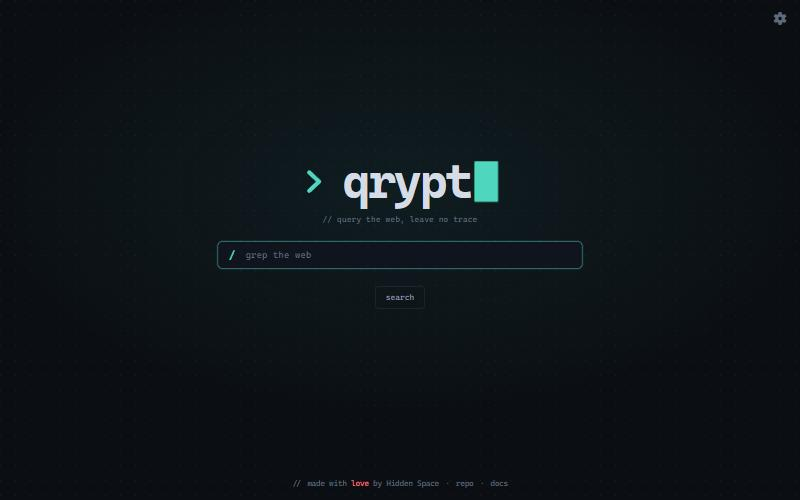
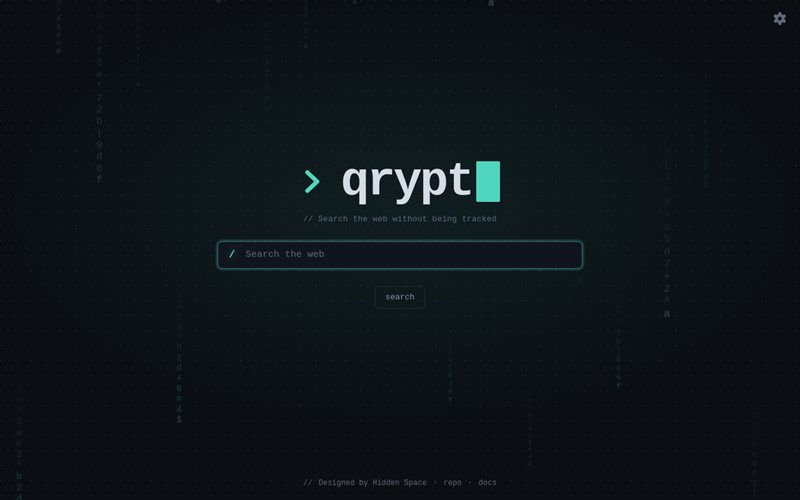
Rewrite the home tagline, search placeholder, footer and descriptions

diff --git a/themes/qrypt/index-templates/footer.html b/themes/qrypt/index-templates/footer.html
@@ -1,7 +1,7 @@
 <div class="home-footer-bottom qrypt-footer">
   <span class="qrypt-footer-slashes" aria-hidden="true">//</span>
   <a href="https://github.com/hidden-space-xyz" target="_blank" rel="noopener">
-    made with <span class="qrypt-footer-love">love</span> by Hidden Space
+    Designed by Hidden Space
   </a>
   <span class="home-footer-separator" aria-hidden="true">·</span>
   <a href="https://github.com/degoog-org/degoog" target="_blank" rel="noopener">

diff --git a/themes/qrypt/layout.html b/themes/qrypt/layout.html
@@ -5,7 +5,7 @@
     <meta name="viewport" content="width=device-width, initial-scale=1.0" />
     <meta
       name="description"
-      content="Qrypt is a private metasearch engine for people who write code."
+      content="Qrypt is a private metasearch engine that combines results from multiple search engines, so you can search the web without being tracked."
     />
     <link
       rel="icon"

diff --git a/themes/qrypt/index-templates/search.html b/themes/qrypt/index-templates/search.html
@@ -19,7 +19,7 @@
       name="q"
       autocomplete="off"
       spellcheck="false"
-      placeholder="grep the web"
+      placeholder="Search the web"
     />
     <div class="ac-dropdown" id="ac-dropdown-home"></div>
     <div id="search-bar-actions-home" class="search-bar-actions"></div>

diff --git a/themes/qrypt/index-templates/logo.html b/themes/qrypt/index-templates/logo.html
@@ -13,5 +13,5 @@
     <span class="qrypt-logo-name">qrypt</span>
     <span class="qrypt-logo-caret" aria-hidden="true"></span>
   </h1>
-  <p class="qrypt-tagline">// query the web, leave no trace</p>
+  <p class="qrypt-tagline">// Search the web without being tracked</p>
 </div>

diff --git a/themes/qrypt/nojs/logo.html b/themes/qrypt/nojs/logo.html
@@ -13,5 +13,5 @@
     <span class="qrypt-logo-name">qrypt</span>
     <span class="qrypt-logo-caret" aria-hidden="true"></span>
   </h1>
-  <p class="qrypt-tagline">// query the web, leave no trace</p>
+  <p class="qrypt-tagline">// Search the web without being tracked</p>
 </div>

diff --git a/themes/qrypt/style.css b/themes/qrypt/style.css
@@ -380,10 +380,6 @@ body:has(#main-home) {
   text-decoration: none;
 }
 
-.qrypt-footer .qrypt-footer-love {
-  color: var(--q-err);
-}
-
 .qrypt-footer [hidden] {
   display: none;
 }
